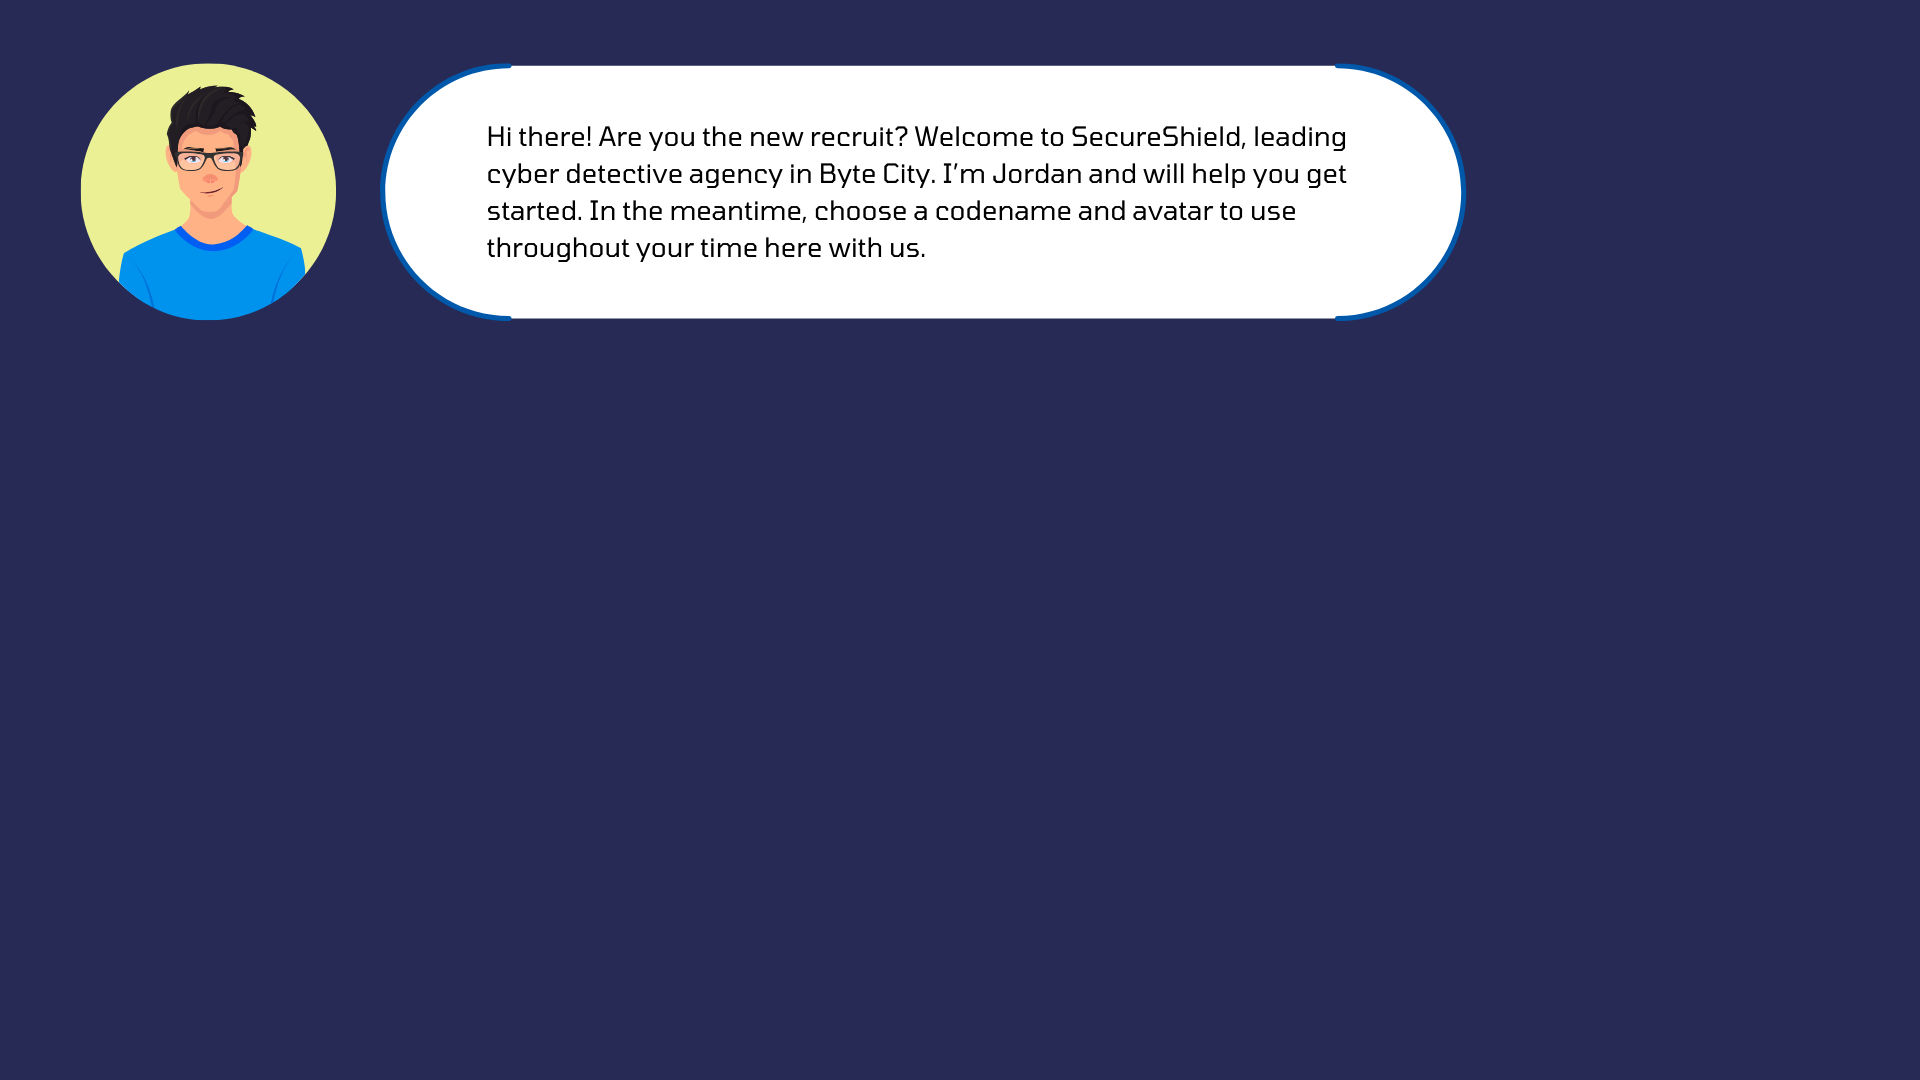
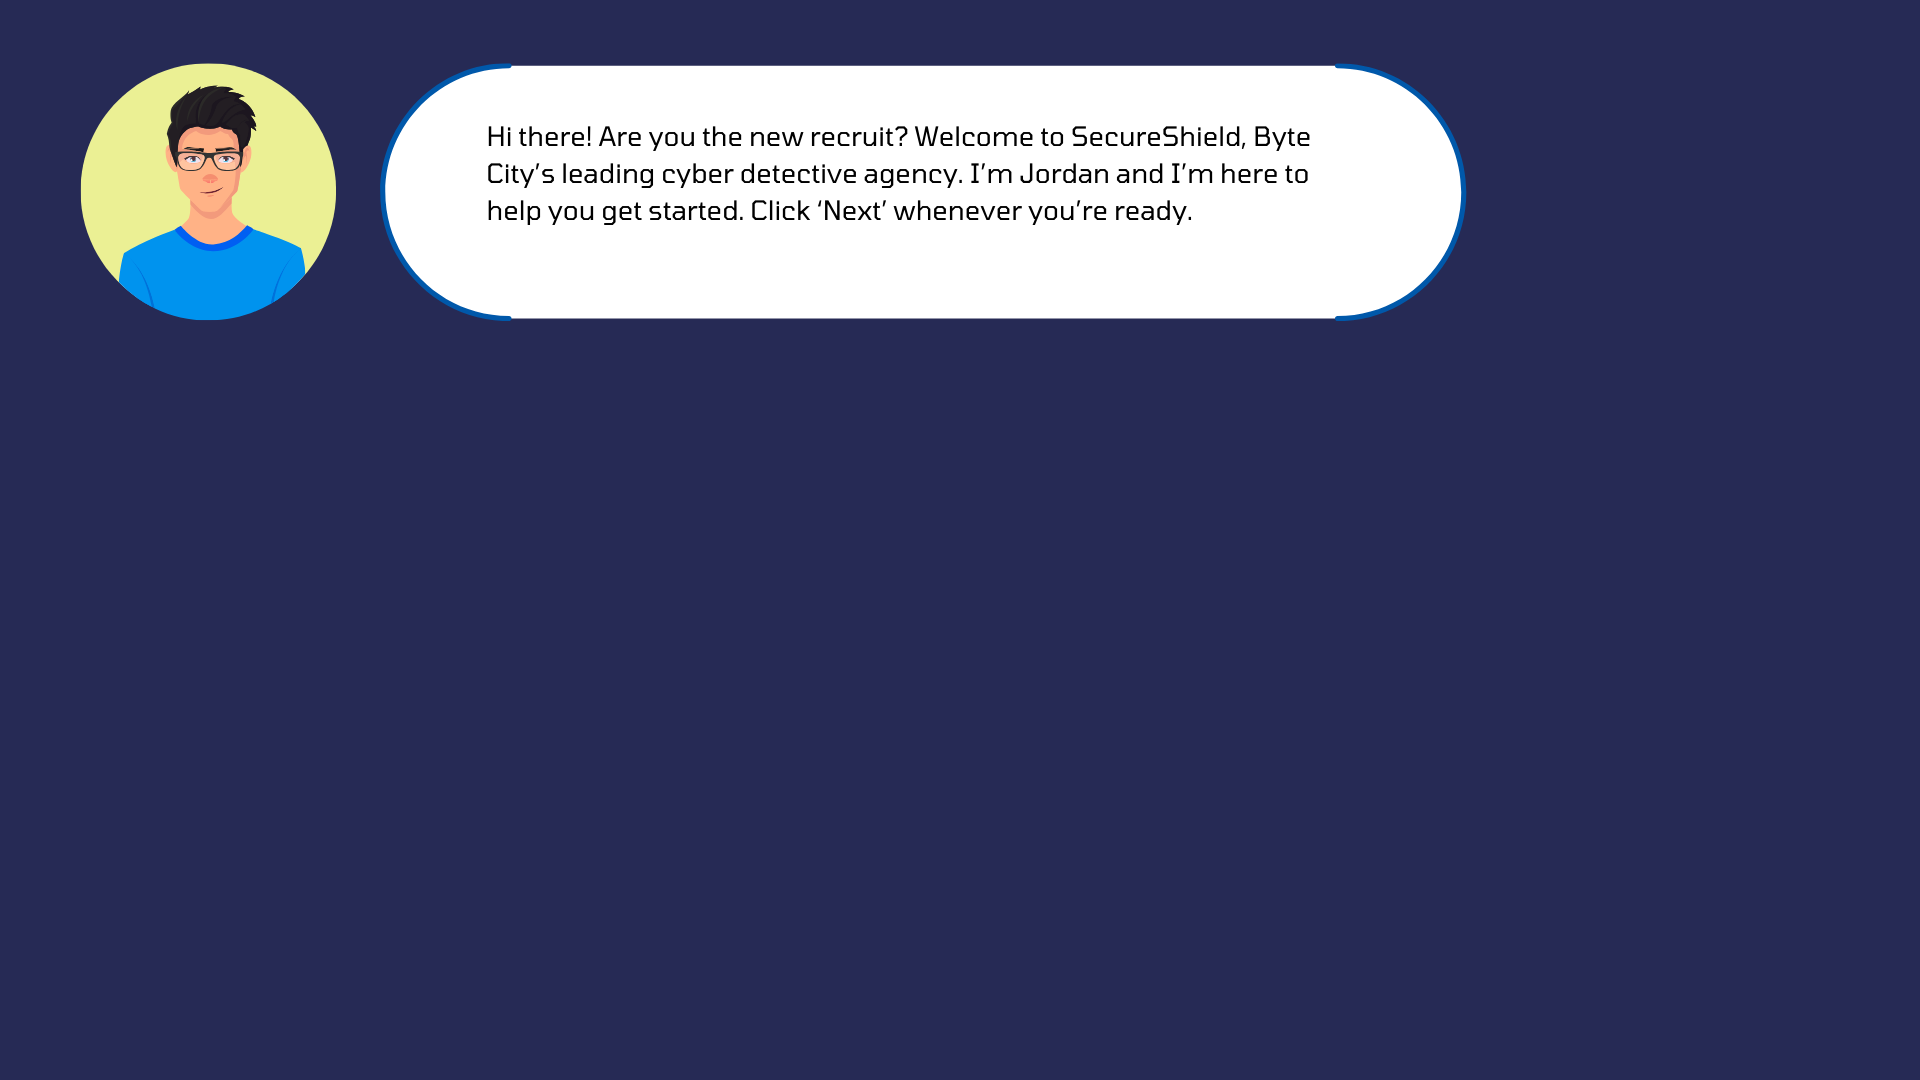
Added mission brief scene

Changed region(s): [[0.25, 0.1222, 0.6875, 0.2444]]

diff --git a/src/Intro.js b/src/Intro.js
@@ -9,11 +9,15 @@ const intros = [
     },
 
     {
-        image: "/assets/BGP_2ChooseChar.png",
+        image: "/assets/BGP_2Intro.png",
     },
 
     {
-        image: "/assets/BGP_2ABegin.png",
+        image: "/assets/BGP_3Intro.png",
+    },
+
+    {
+        image: "/assets/BGP_4Intro.png",
     },
 ];
 
@@ -54,14 +58,12 @@ function Intro() {
                 className='intro-image'
             />
             <div className='navigation-button'>
-                {currentScene !== 1 && (
                     <div className= "btn" onClick={handleNext} disabled={currentScene === intros.length - 1}>
                         <img
                             src="/assets/nextbtn.png"
                             alt="Next button"
                         />
                     </div>
-                )}
             </div>
         </div>
     )

diff --git a/src/App.css b/src/App.css
@@ -143,18 +143,16 @@ button {
   margin-top: 20px;
   width: 50%;
   height: 50%;
+  cursor: pointer;
 }
 
 .btn {
   padding: 10px 20px;
   font-size: 16px;
   background-color: transparent;
-  position: fixed;
-  width: 50%;
-  height: 50%;
-  margin-top: -40%;
-  margin-left: 55%;
-
+  position: absolute;
+  margin-top: -33%;
+  margin-left: 65%;
 }
 
 @media screen and (min-width: 600px) {
